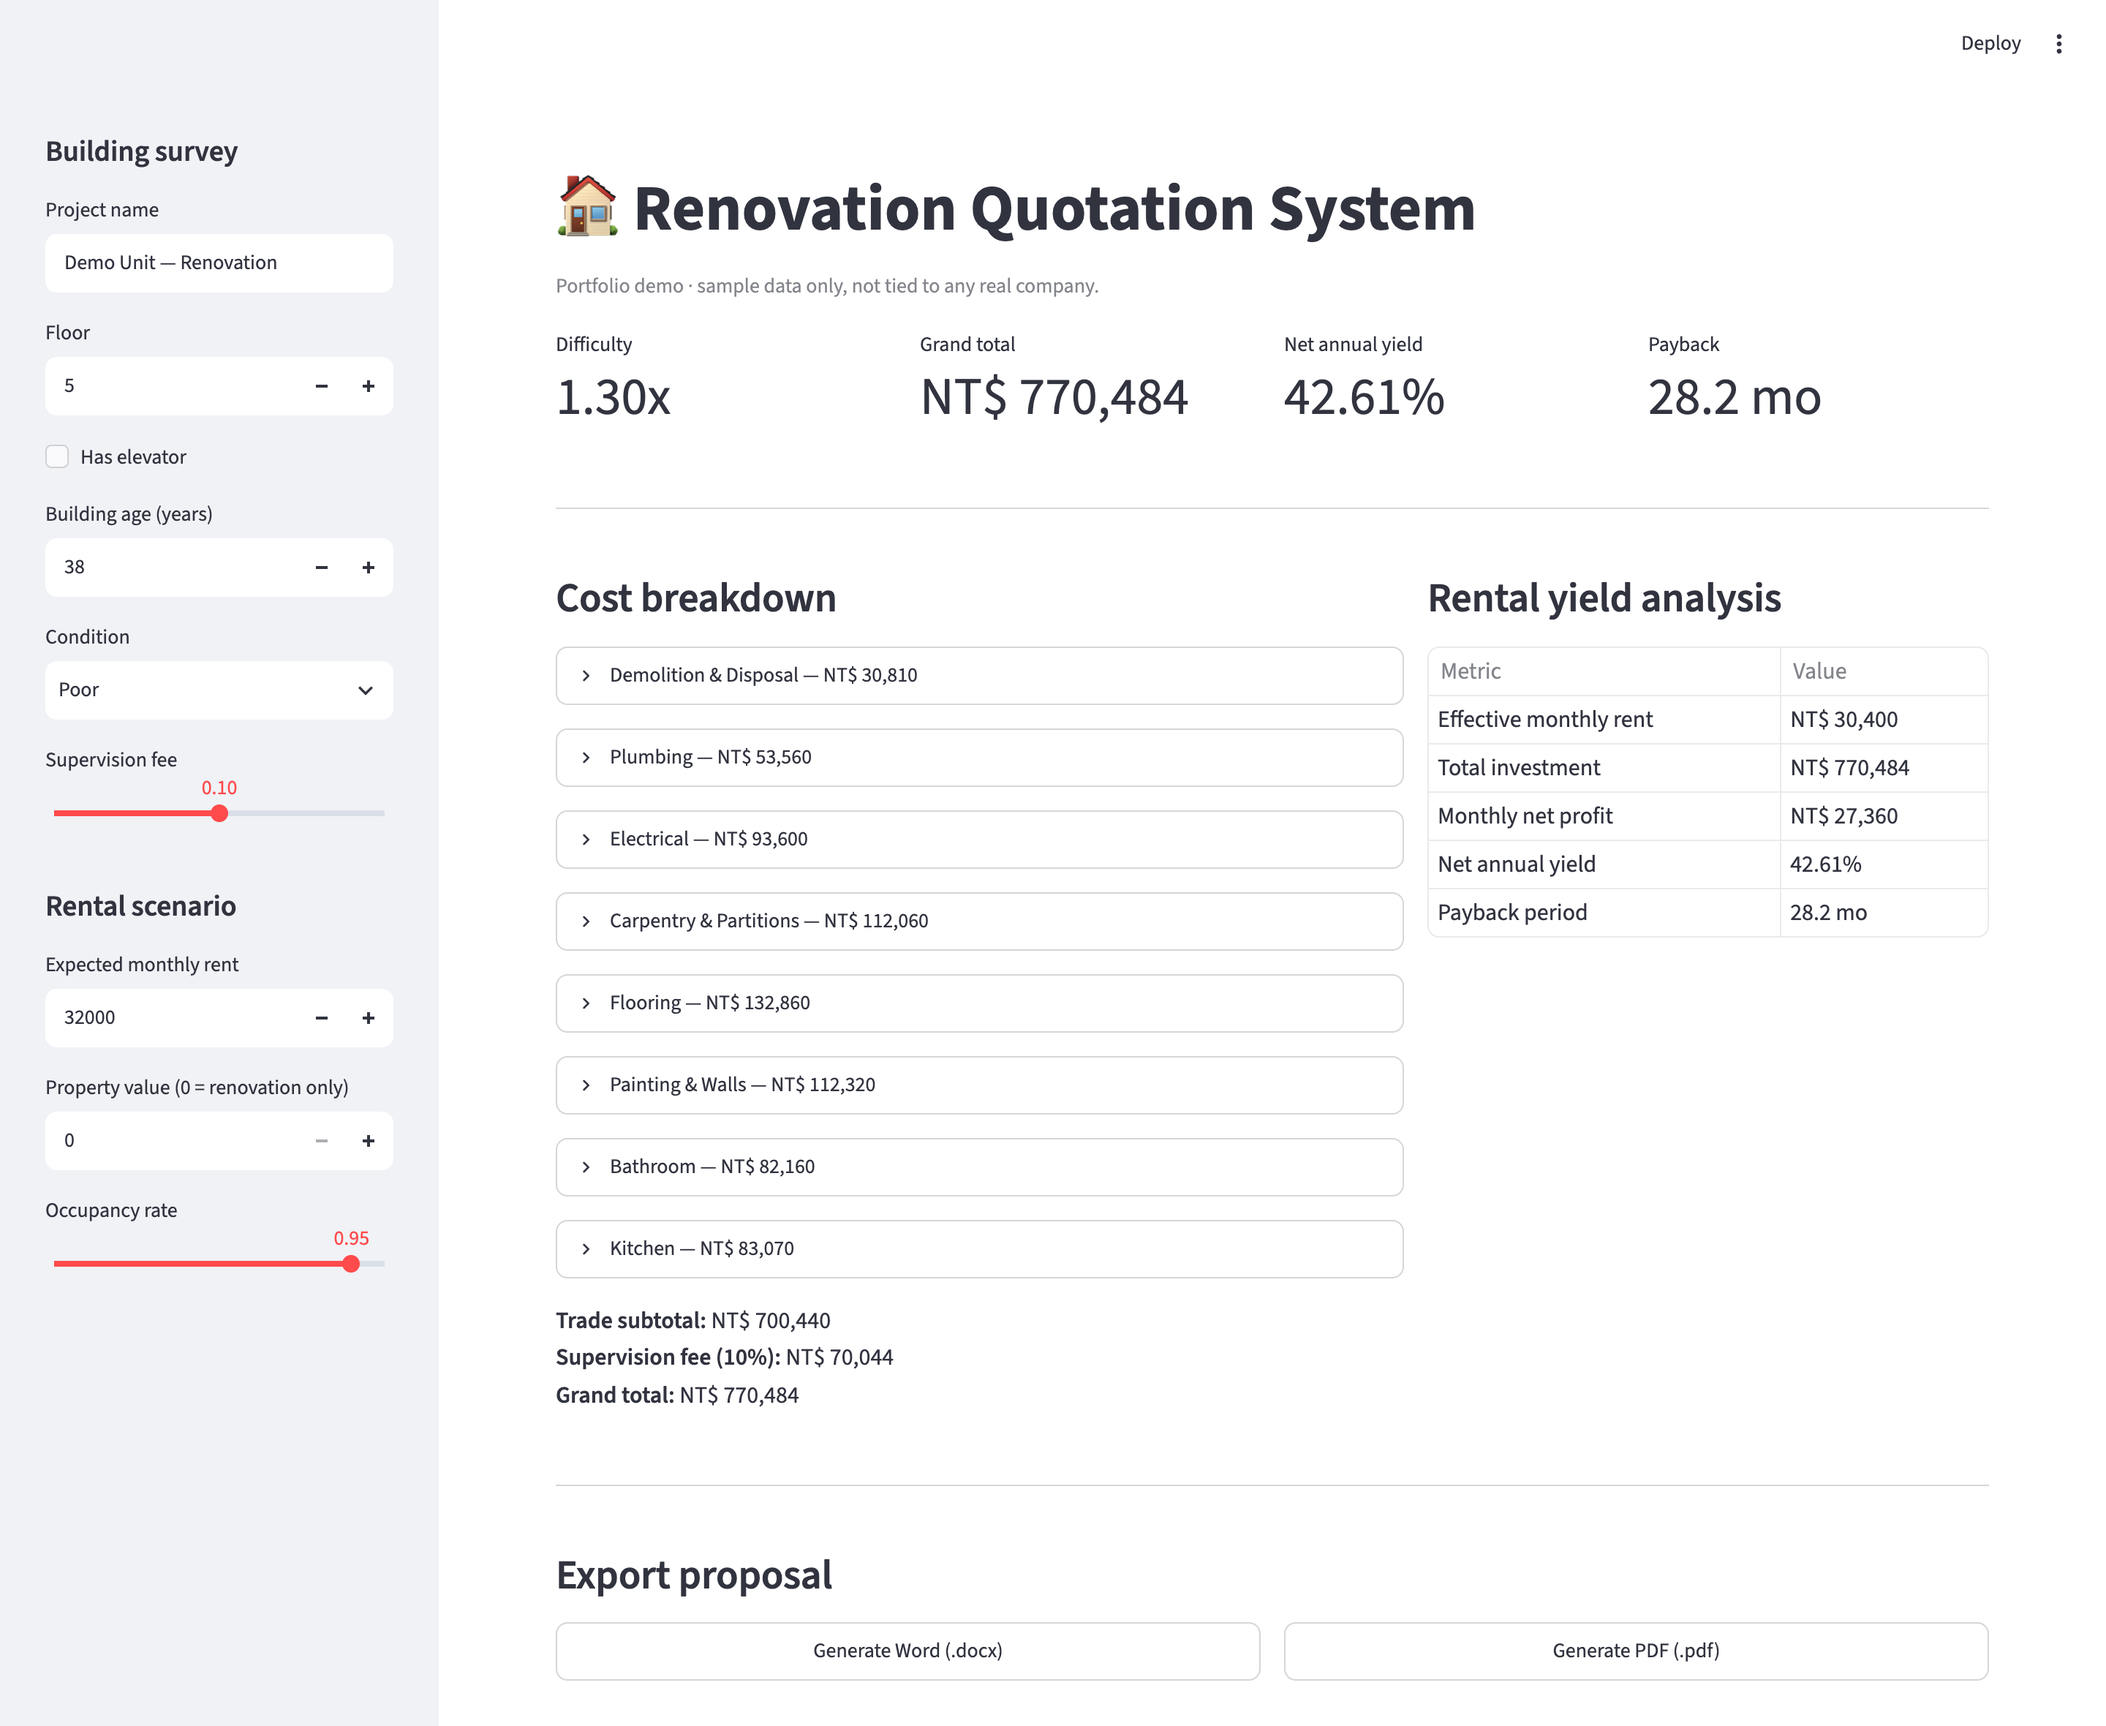
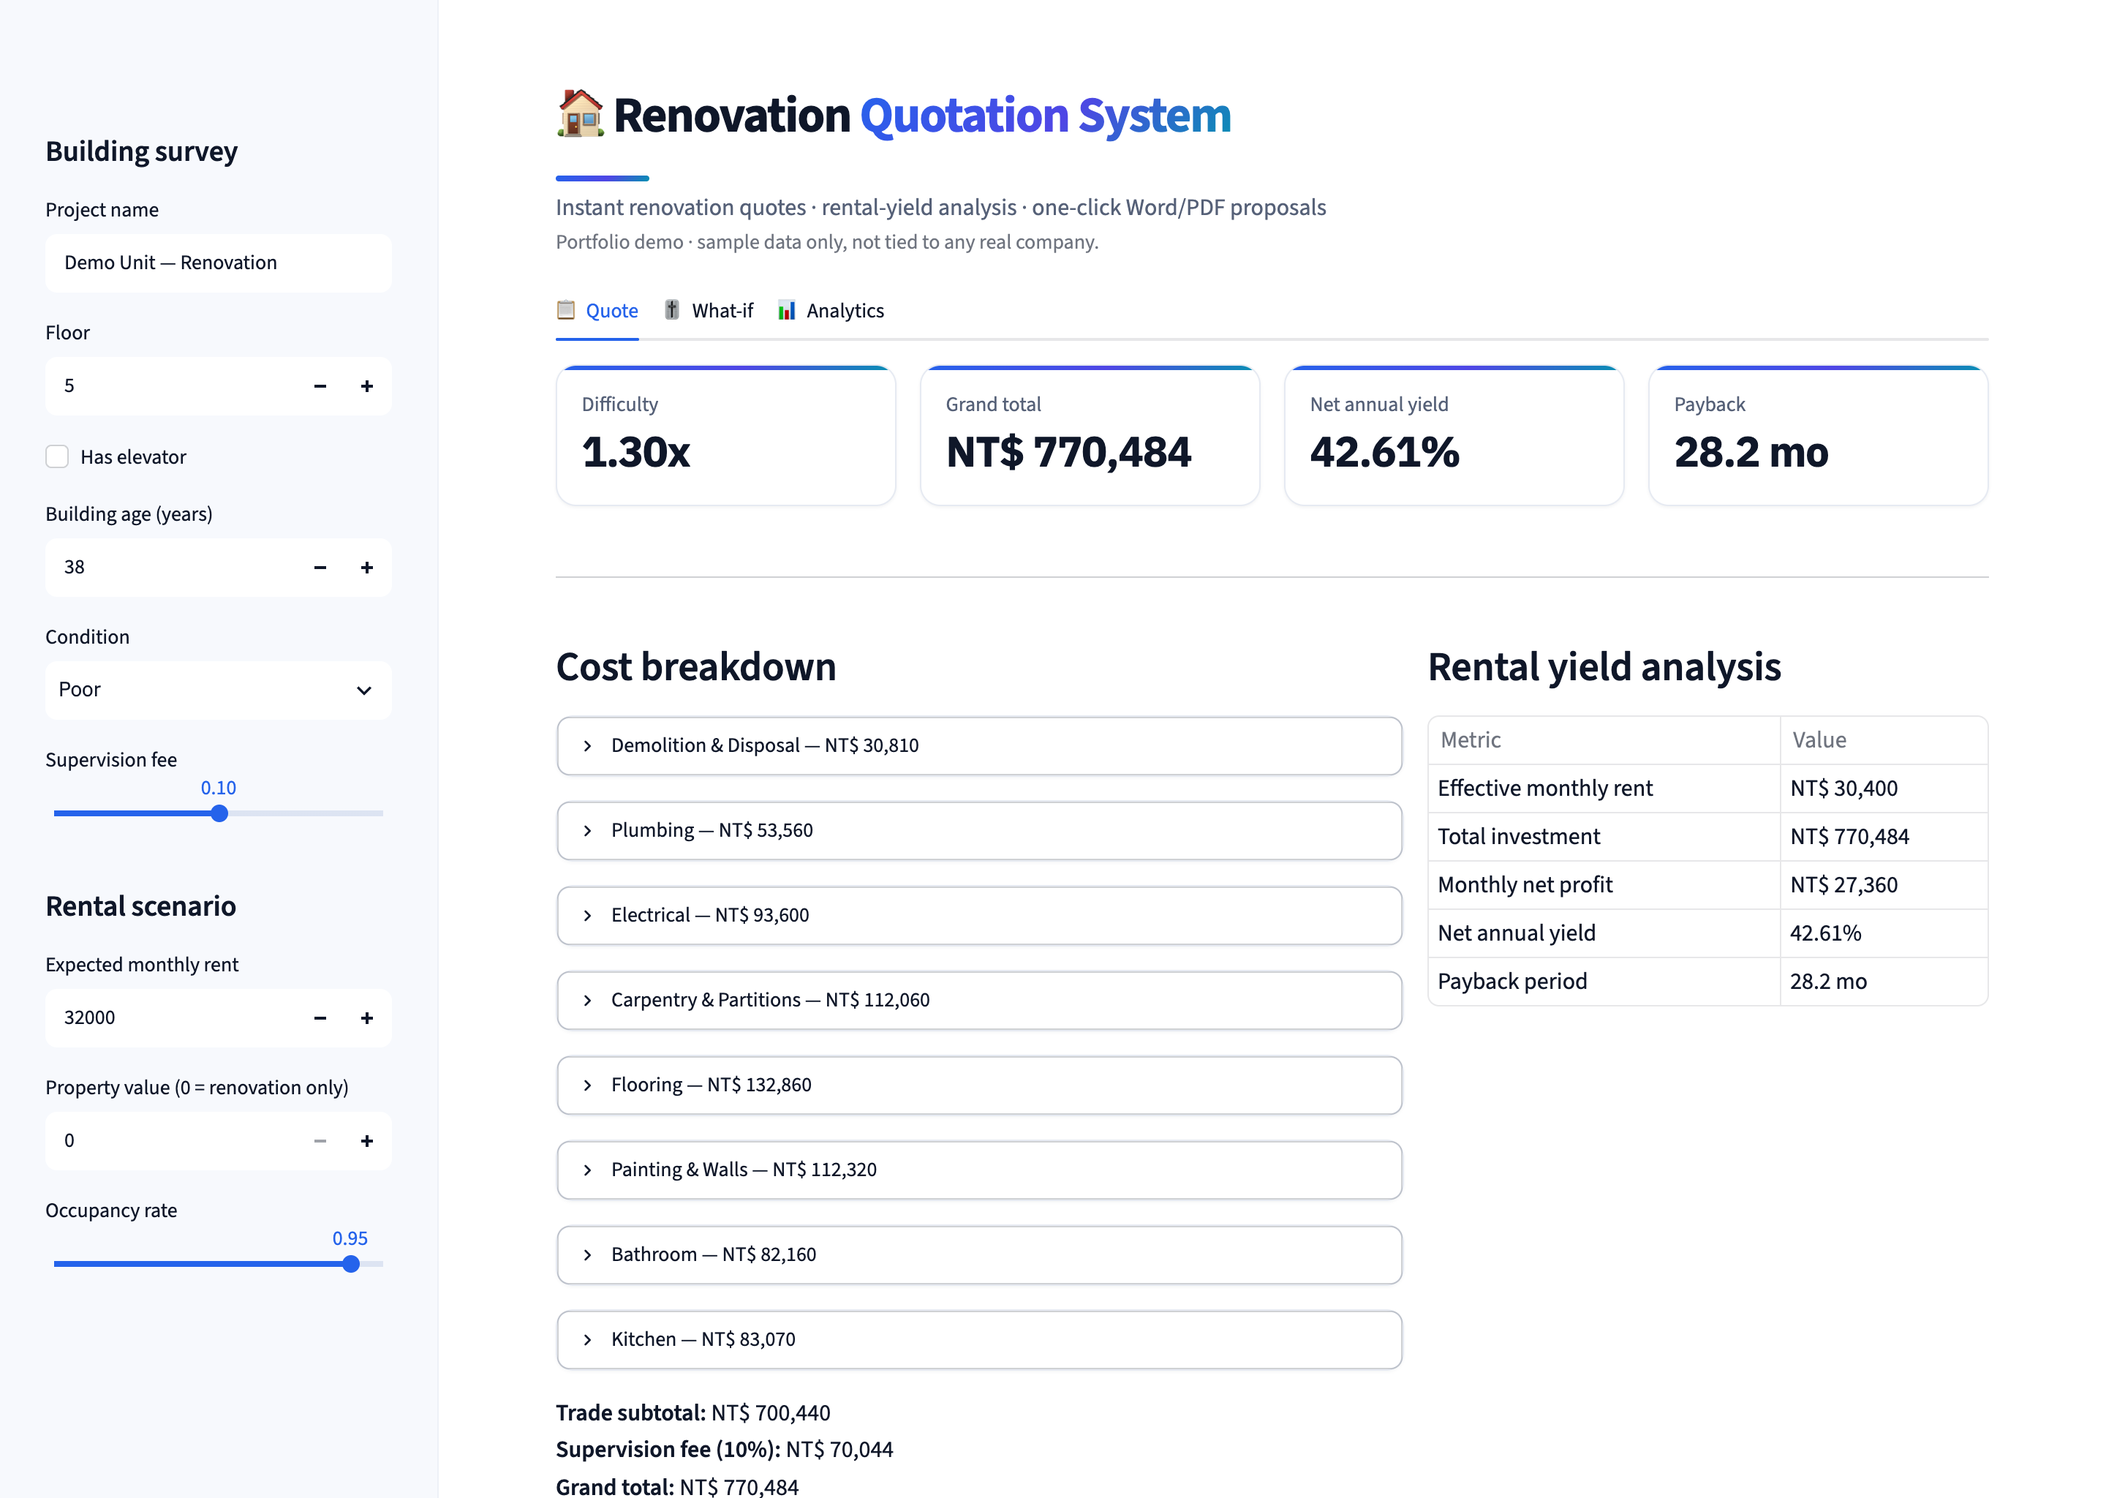
style: professional skin for the Streamlit app
- inject custom CSS: IBM Plex font, gradient-accented metric cards, styled
  hero header, refined tabs/sidebar/buttons/expanders, hide default chrome
- blue theme in .streamlit/config.toml (matches the portfolio site)
- fix metric value truncation (font-size + overflow)
- refresh README screenshots to the new look

diff --git a/app/streamlit_app.py b/app/streamlit_app.py
@@ -31,6 +31,64 @@ from renovation_quote.models.difficulty import Condition, DifficultyMultiplier
 
 st.set_page_config(page_title="Renovation Quotation System", page_icon="🏠", layout="wide")
 
+
+def _inject_css() -> None:
+    """A polished, professional skin on top of Streamlit's defaults."""
+    st.markdown(
+        """
+        <style>
+        @import url('https://fonts.googleapis.com/css2?family=IBM+Plex+Sans:wght@400;500;600;700&family=IBM+Plex+Mono:wght@500;600&display=swap');
+        :root {
+          --accent:#2563eb; --grad:linear-gradient(135deg,#2563eb 0%,#4f46e5 55%,#0891b2 100%);
+          --ink:#0f1729; --muted:#566178; --border:#e6eaf2;
+        }
+        html, body, .stApp, [data-testid="stAppViewContainer"], [class*="css"] {
+          font-family:'IBM Plex Sans',-apple-system,BlinkMacSystemFont,'Segoe UI',sans-serif;
+        }
+        /* cleaner chrome */
+        [data-testid="stToolbar"], [data-testid="stDecoration"] { display:none; }
+        #MainMenu, footer { visibility:hidden; }
+        [data-testid="stHeader"] { background:transparent; }
+        .block-container { padding-top:2.2rem; padding-bottom:3rem; max-width:1180px; }
+        h1,h2,h3 { letter-spacing:-.02em; }
+        /* hero */
+        .app-hero__title { font-weight:700; font-size:2.15rem; letter-spacing:-.03em; color:var(--ink); }
+        .app-hero__title .g { background:var(--grad); -webkit-background-clip:text; background-clip:text; color:transparent; }
+        .app-hero__rule { height:4px; width:64px; border-radius:3px; background:var(--grad); margin:.85rem 0 .35rem; }
+        .app-hero__sub { color:var(--muted); font-size:1rem; }
+        /* metric cards */
+        [data-testid="stMetric"] {
+          background:#fff; border:1px solid var(--border); border-radius:14px;
+          padding:.9rem 1.05rem; box-shadow:0 1px 2px rgba(16,24,40,.05);
+          position:relative; overflow:hidden;
+        }
+        [data-testid="stMetric"]::before { content:""; position:absolute; top:0; left:0; right:0; height:3px; background:var(--grad); }
+        [data-testid="stMetricValue"] { font-weight:700; font-size:1.8rem; letter-spacing:-.02em; }
+        [data-testid="stMetricValue"] > div { overflow:visible; }
+        [data-testid="stMetricLabel"] { color:var(--muted); }
+        /* tabs */
+        .stTabs [data-baseweb="tab-list"] { gap:6px; border-bottom:1px solid var(--border); }
+        .stTabs [data-baseweb="tab"] { font-weight:600; color:var(--muted); }
+        .stTabs [aria-selected="true"] { color:var(--accent); }
+        .stTabs [data-baseweb="tab-highlight"] { background:var(--accent); }
+        /* buttons */
+        .stButton>button, .stDownloadButton>button {
+          border-radius:10px; font-weight:600; border:1px solid var(--border); transition:all .15s ease;
+        }
+        .stButton>button:hover, .stDownloadButton>button:hover { border-color:var(--accent); color:var(--accent); transform:translateY(-1px); }
+        /* sidebar */
+        [data-testid="stSidebar"] { background:#f7f9fd; border-right:1px solid #eef1f7; }
+        /* expanders */
+        [data-testid="stExpander"] { border:1px solid var(--border); border-radius:12px; box-shadow:0 1px 2px rgba(16,24,40,.04); }
+        [data-testid="stExpander"] summary:hover { color:var(--accent); }
+        </style>
+        """,
+        unsafe_allow_html=True,
+    )
+
+
+_inject_css()
+
 CONDITION_ORDER = ["normal", "aging", "poor", "severe"]
 
 
@@ -52,7 +110,16 @@ def load_dataset() -> pd.DataFrame:
     return generate_dataset(n=800, seed=42)
 
 
-st.title("🏠 Renovation Quotation System")
+st.markdown(
+    """
+    <div class="app-hero">
+      <div class="app-hero__title">🏠 Renovation <span class="g">Quotation System</span></div>
+      <div class="app-hero__rule"></div>
+      <div class="app-hero__sub">Instant renovation quotes · rental-yield analysis · one-click Word/PDF proposals</div>
+    </div>
+    """,
+    unsafe_allow_html=True,
+)
 st.caption("Portfolio demo · sample data only, not tied to any real company.")
 
 # -- sidebar: survey inputs -----------------------------------------------
